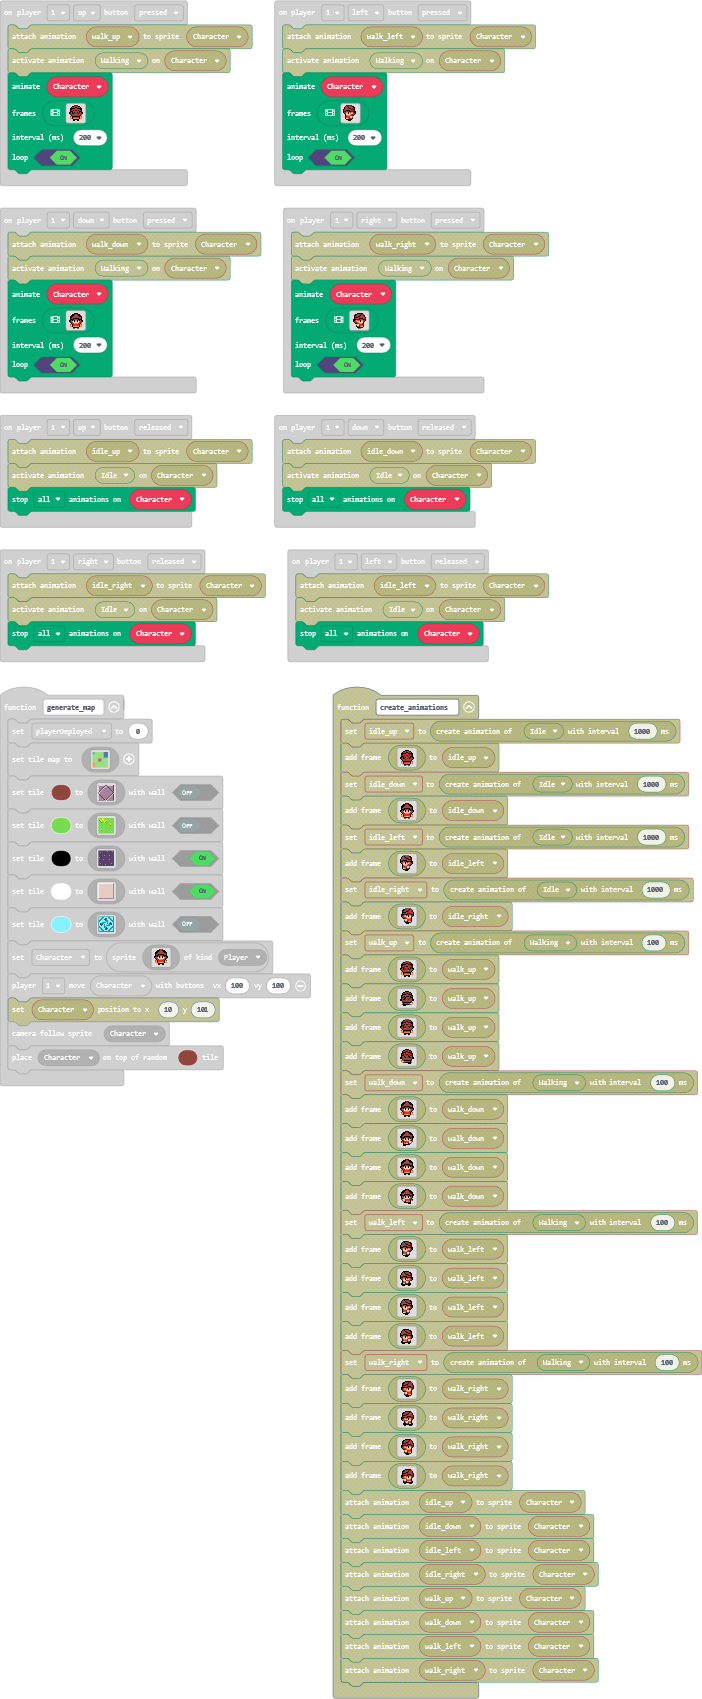
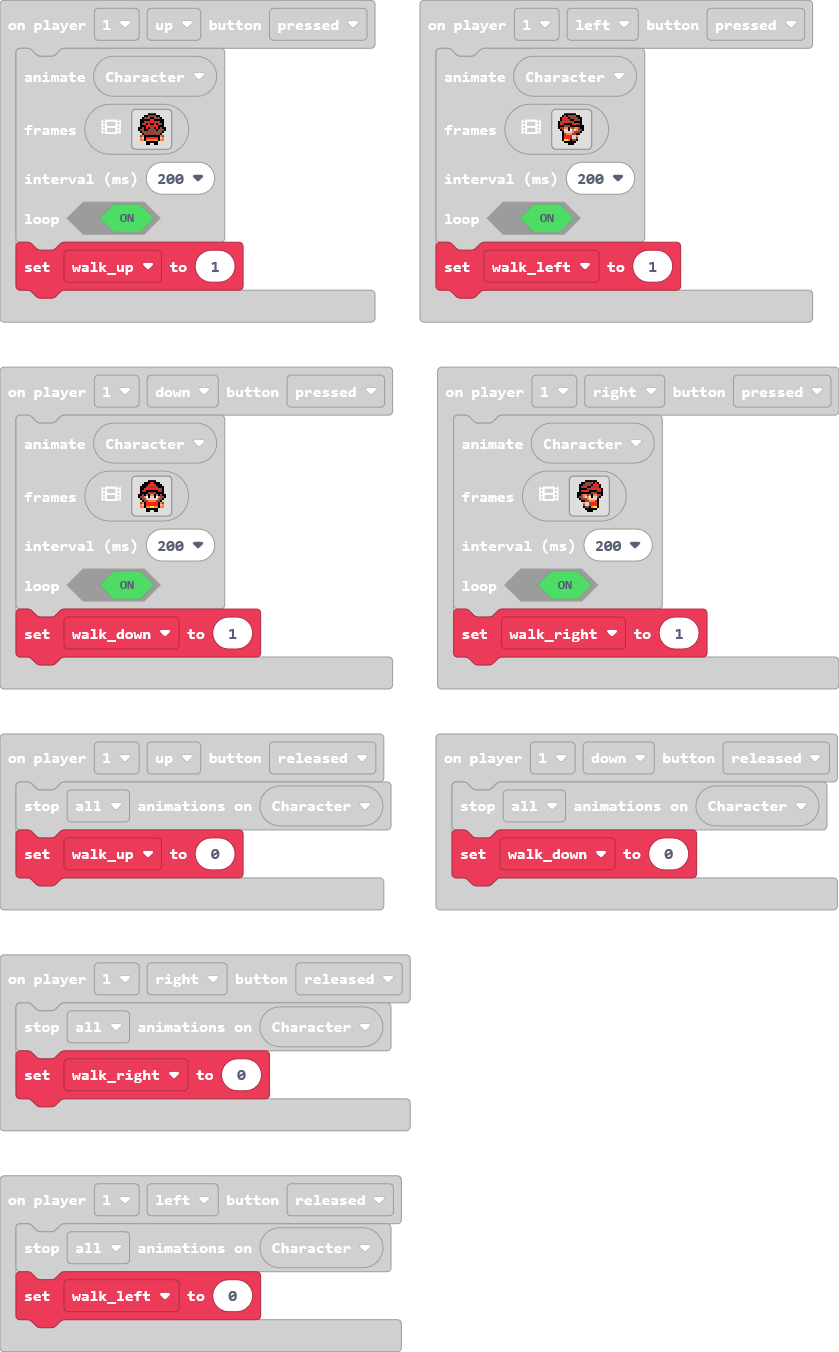
Update pxt.json, main.blocks, main.ts

diff --git a/main.ts b/main.ts
@@ -8,6 +8,7 @@ namespace SpriteKind {
 }
 controller.player1.onButtonEvent(ControllerButton.Left, ControllerButtonEvent.Released, function () {
     animation.stopAnimation(animation.AnimationTypes.All, Character)
+    walk_left = 0
 })
 controller.player1.onButtonEvent(ControllerButton.Up, ControllerButtonEvent.Pressed, function () {
     animation.runImageAnimation(
@@ -84,12 +85,15 @@ controller.player1.onButtonEvent(ControllerButton.Up, ControllerButtonEvent.Pres
     200,
     true
     )
+    walk_up = 1
 })
 controller.player1.onButtonEvent(ControllerButton.Up, ControllerButtonEvent.Released, function () {
     animation.stopAnimation(animation.AnimationTypes.All, Character)
+    walk_up = 0
 })
 controller.player1.onButtonEvent(ControllerButton.Down, ControllerButtonEvent.Released, function () {
     animation.stopAnimation(animation.AnimationTypes.All, Character)
+    walk_down = 0
 })
 controller.player1.onButtonEvent(ControllerButton.Right, ControllerButtonEvent.Pressed, function () {
     animation.runImageAnimation(
@@ -166,6 +170,7 @@ controller.player1.onButtonEvent(ControllerButton.Right, ControllerButtonEvent.P
     200,
     true
     )
+    walk_right = 1
 })
 scene.onHitTile(SpriteKind.Player, 15, function (sprite) {
     scene.setTile(15, img`
@@ -226,6 +231,7 @@ scene.onHitTile(SpriteKind.Player, 15, function (sprite) {
 })
 controller.player1.onButtonEvent(ControllerButton.Right, ControllerButtonEvent.Released, function () {
     animation.stopAnimation(animation.AnimationTypes.All, Character)
+    walk_right = 0
 })
 function generate_map () {
     playerDeployed = 0
@@ -546,6 +552,7 @@ controller.player1.onButtonEvent(ControllerButton.Left, ControllerButtonEvent.Pr
     200,
     true
     )
+    walk_left = 1
 })
 controller.player1.onButtonEvent(ControllerButton.Down, ControllerButtonEvent.Pressed, function () {
     animation.runImageAnimation(
@@ -622,7 +629,12 @@ controller.player1.onButtonEvent(ControllerButton.Down, ControllerButtonEvent.Pr
     200,
     true
     )
+    walk_down = 1
 })
 let playerDeployed = 0
+let walk_right = 0
+let walk_down = 0
+let walk_up = 0
+let walk_left = 0
 let Character: Sprite = null
 generate_map()
